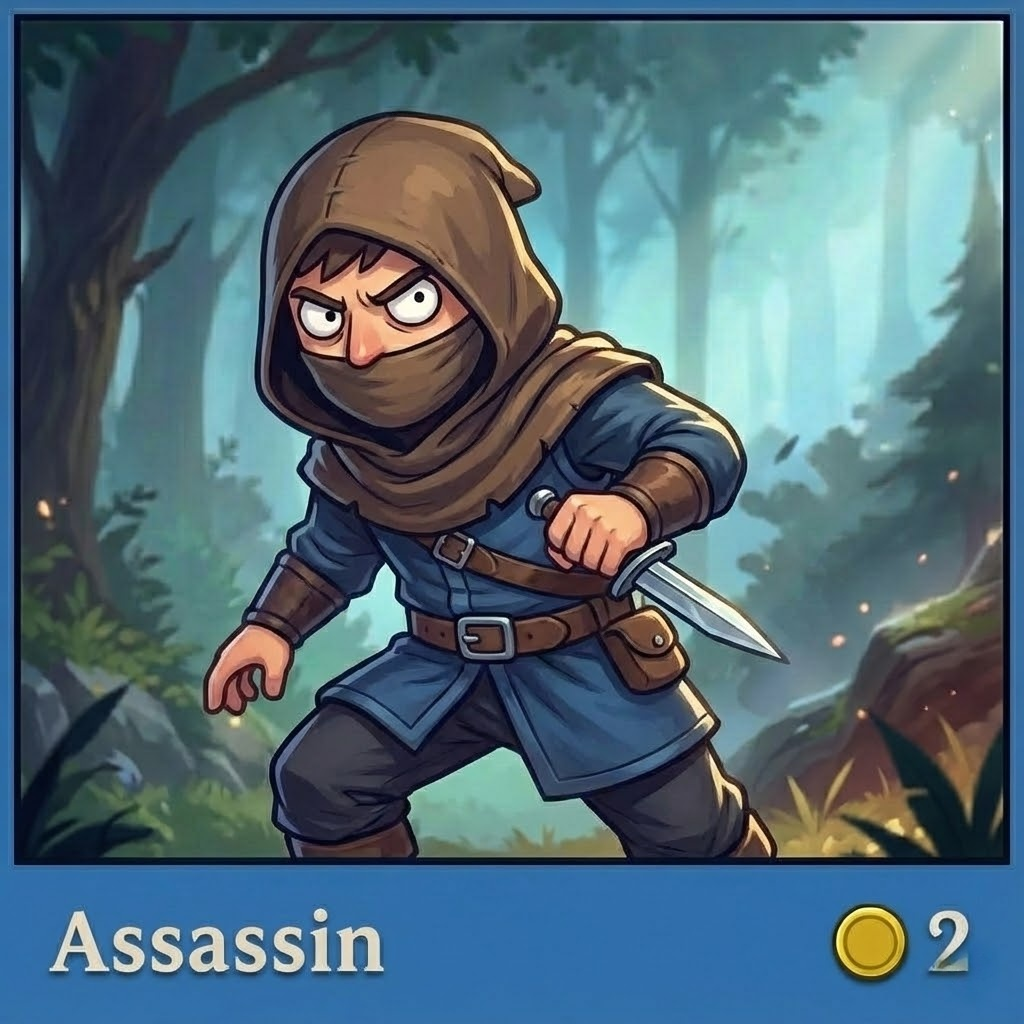
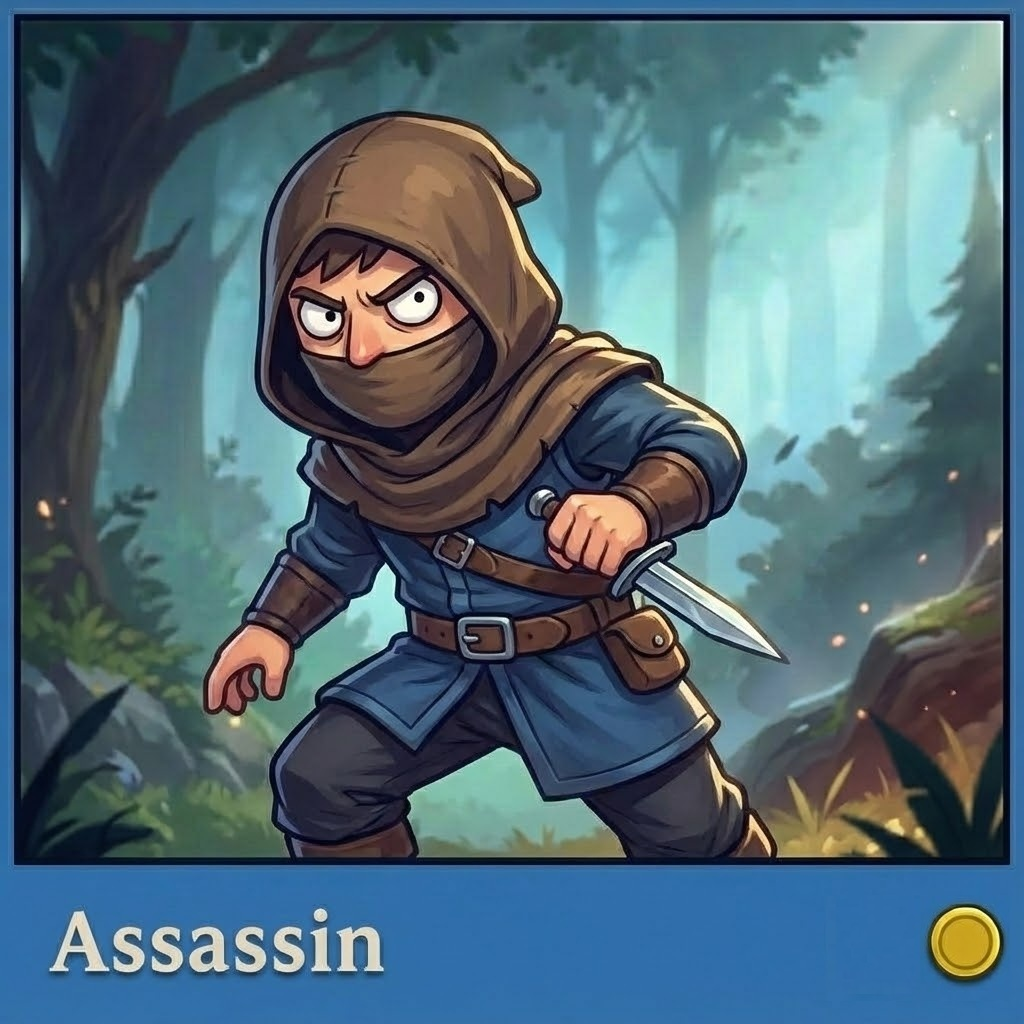
add per-card cost display in shop UI

Changed region(s): [[0.8125, 0.875, 1.0, 0.9688]]

diff --git a/autochess/ui/shop.py b/autochess/ui/shop.py
@@ -55,6 +55,10 @@ class Shop:
         self.color_text = colors.get('text', (230, 230, 230))
         self.font = pygame.font.SysFont(None, 28)
 
+        # Per-card cost label font
+        # Small enough to fit inside the bottom blue bar on card art
+        self.font_cost = pygame.font.SysFont(None, 24, bold=True)
+
         # GOLD FONT: 64
         self.font_gold = pygame.font.SysFont(None, 64, bold=True)
         self.font_debug = pygame.font.SysFont(None, 20)
@@ -287,6 +291,25 @@ class Shop:
                 initials = name[:2].upper()
                 txt = self.font.render(initials, True, (255, 255, 255))
                 self.screen.blit(txt, txt.get_rect(center=brect.center))
+
+            # Draw per-card unit cost (next to the coin area on the card art)
+            cost = self._get_unit_cost(name)
+            cost_text = str(cost)
+            cost_surf = self.font_cost.render(cost_text, True, (255, 215, 0))
+            cost_shadow = self.font_cost.render(cost_text, True, (0, 0, 0))
+
+            # Anchor the text within the bottom blue strip, left of the coin.
+            pad = max(3, int(min(brect.width, brect.height) * 0.03))
+            bottom_strip_h = max(14, int(brect.height * 0.18))
+            coin_d = max(10, int(bottom_strip_h * 0.55))
+            coin_x = int(brect.right - pad - coin_d)
+            coin_y = int(brect.bottom - pad - coin_d)
+
+            cx = int(coin_x - 2 - cost_surf.get_width())
+            cy = int(coin_y + (coin_d - cost_surf.get_height()) / 2)
+            cy = max(int(brect.bottom - bottom_strip_h + 2), min(cy, int(brect.bottom - cost_surf.get_height() - 2)))
+            self.screen.blit(cost_shadow, (cx + 1, cy + 1))
+            self.screen.blit(cost_surf, (cx, cy))
 
             # DEBUG: Draw Card Hitbox
             if self.show_hitboxes:
